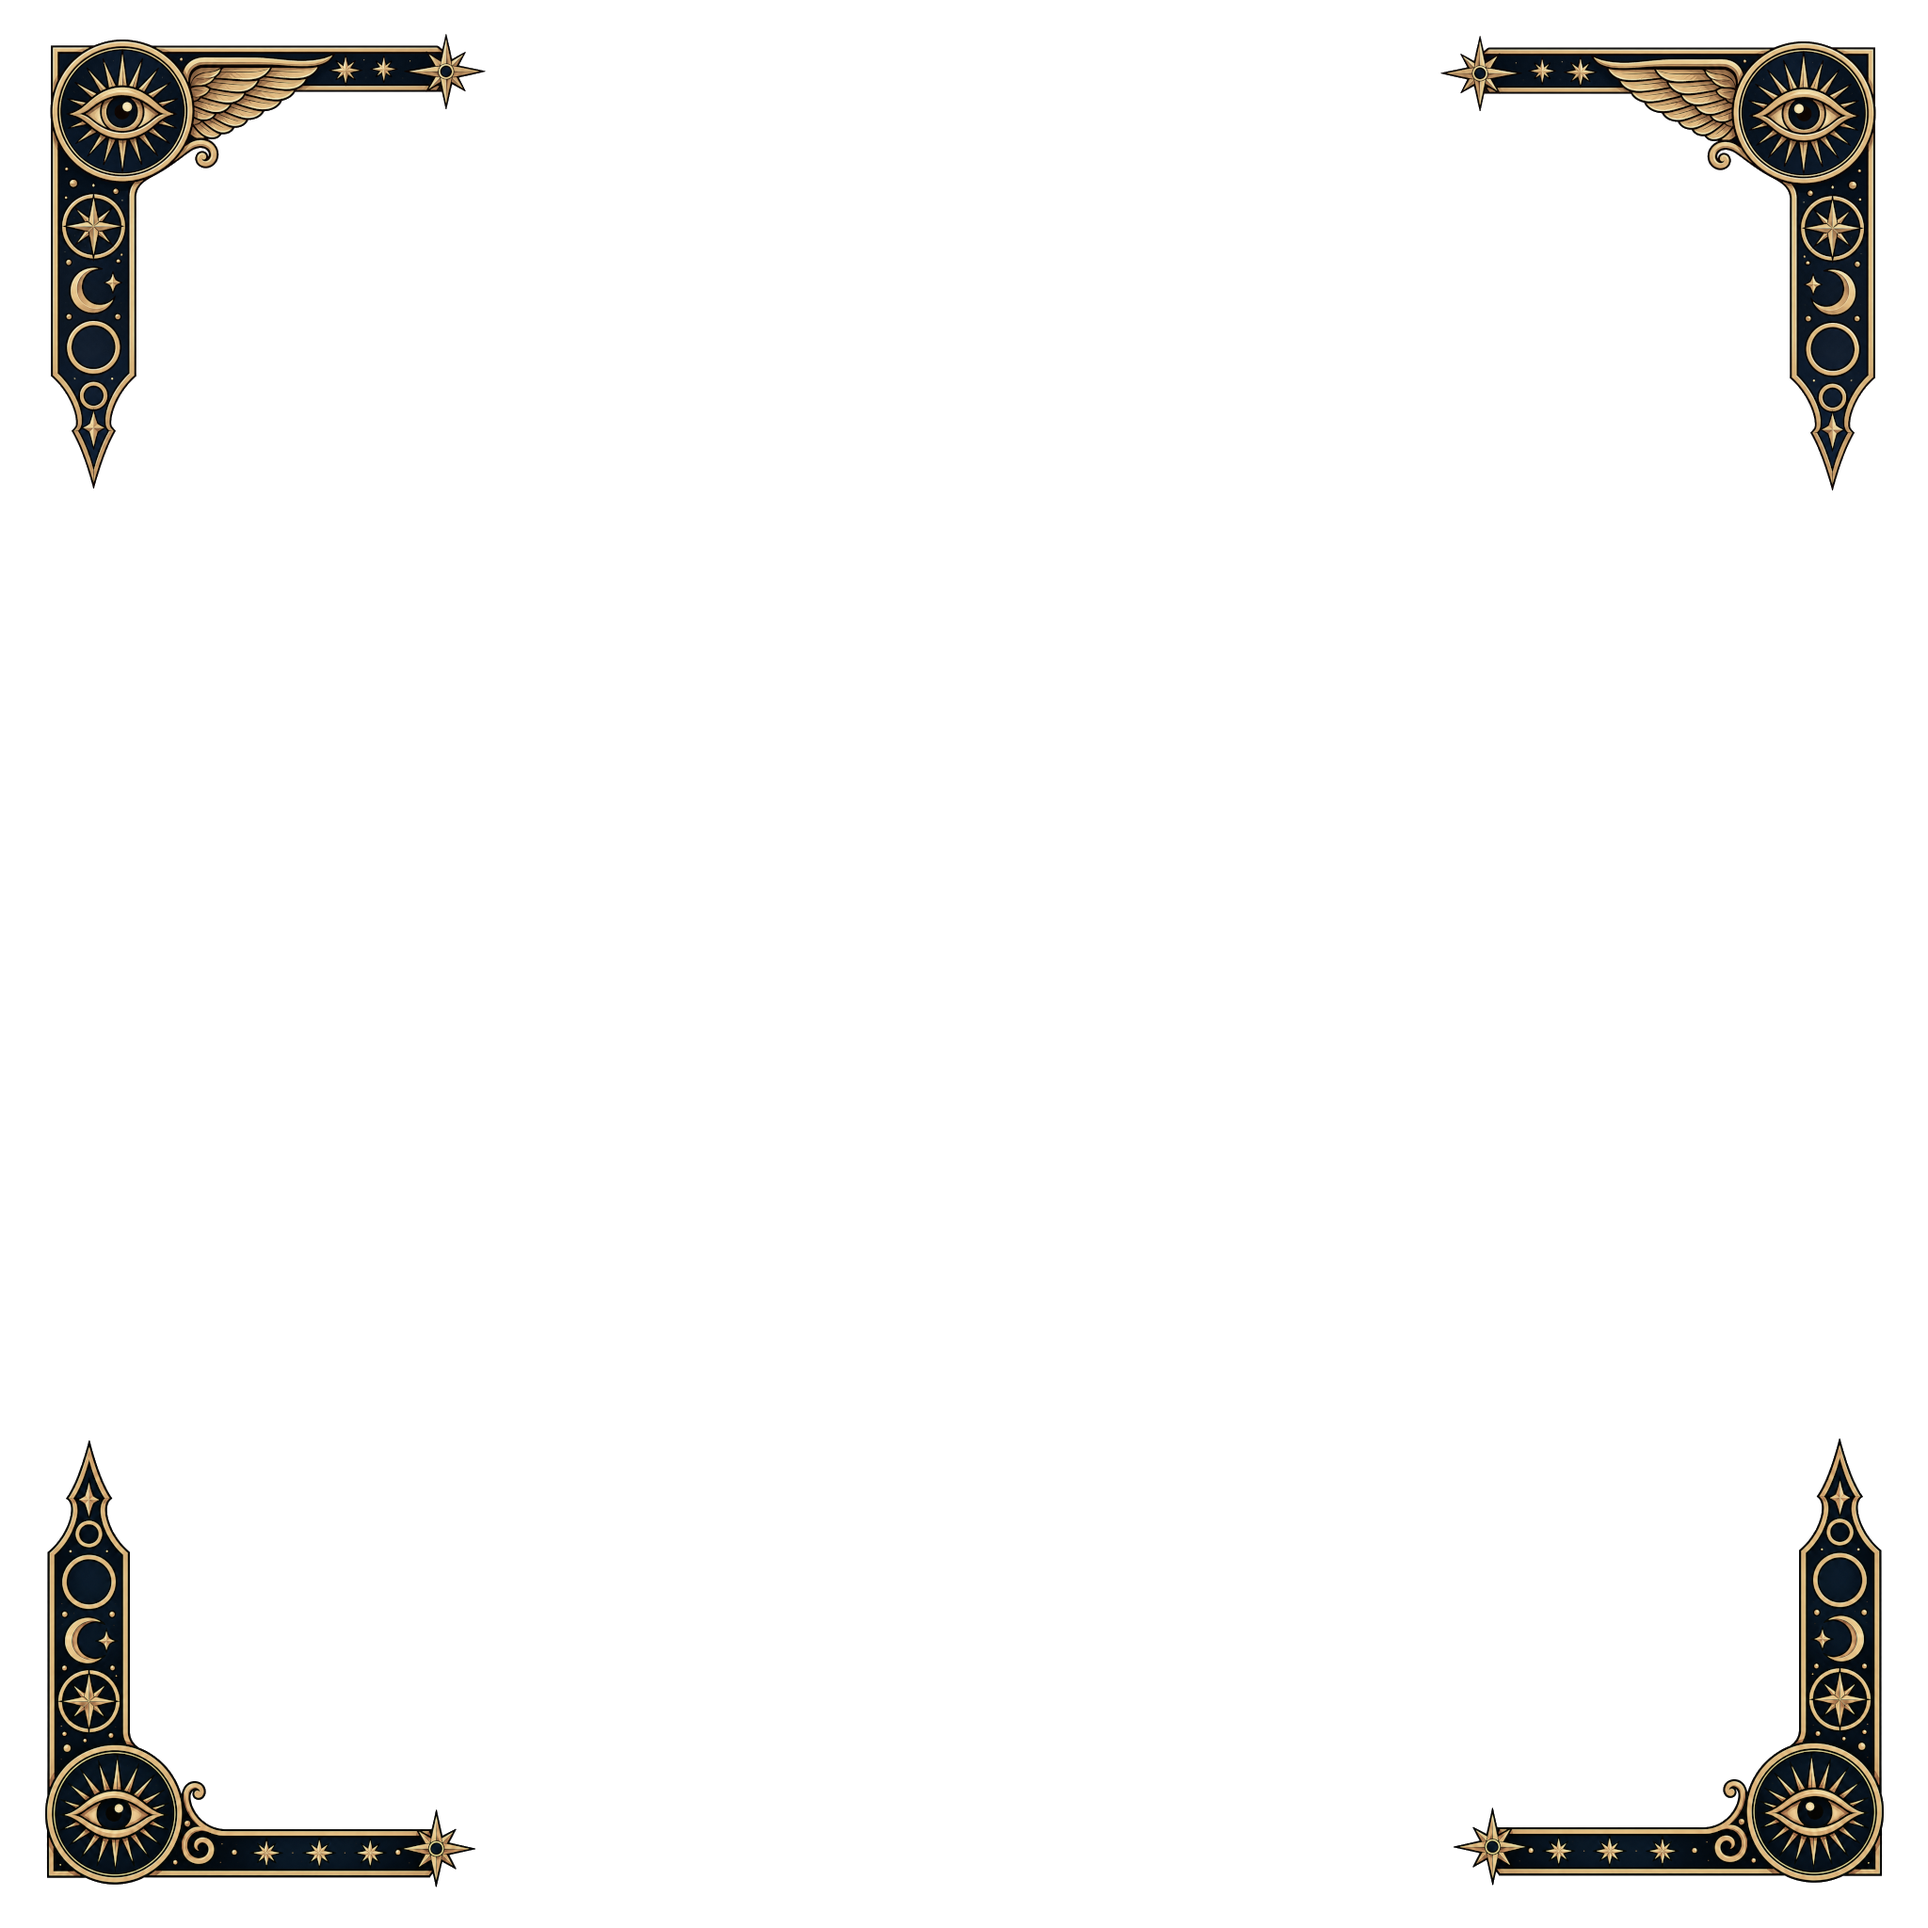
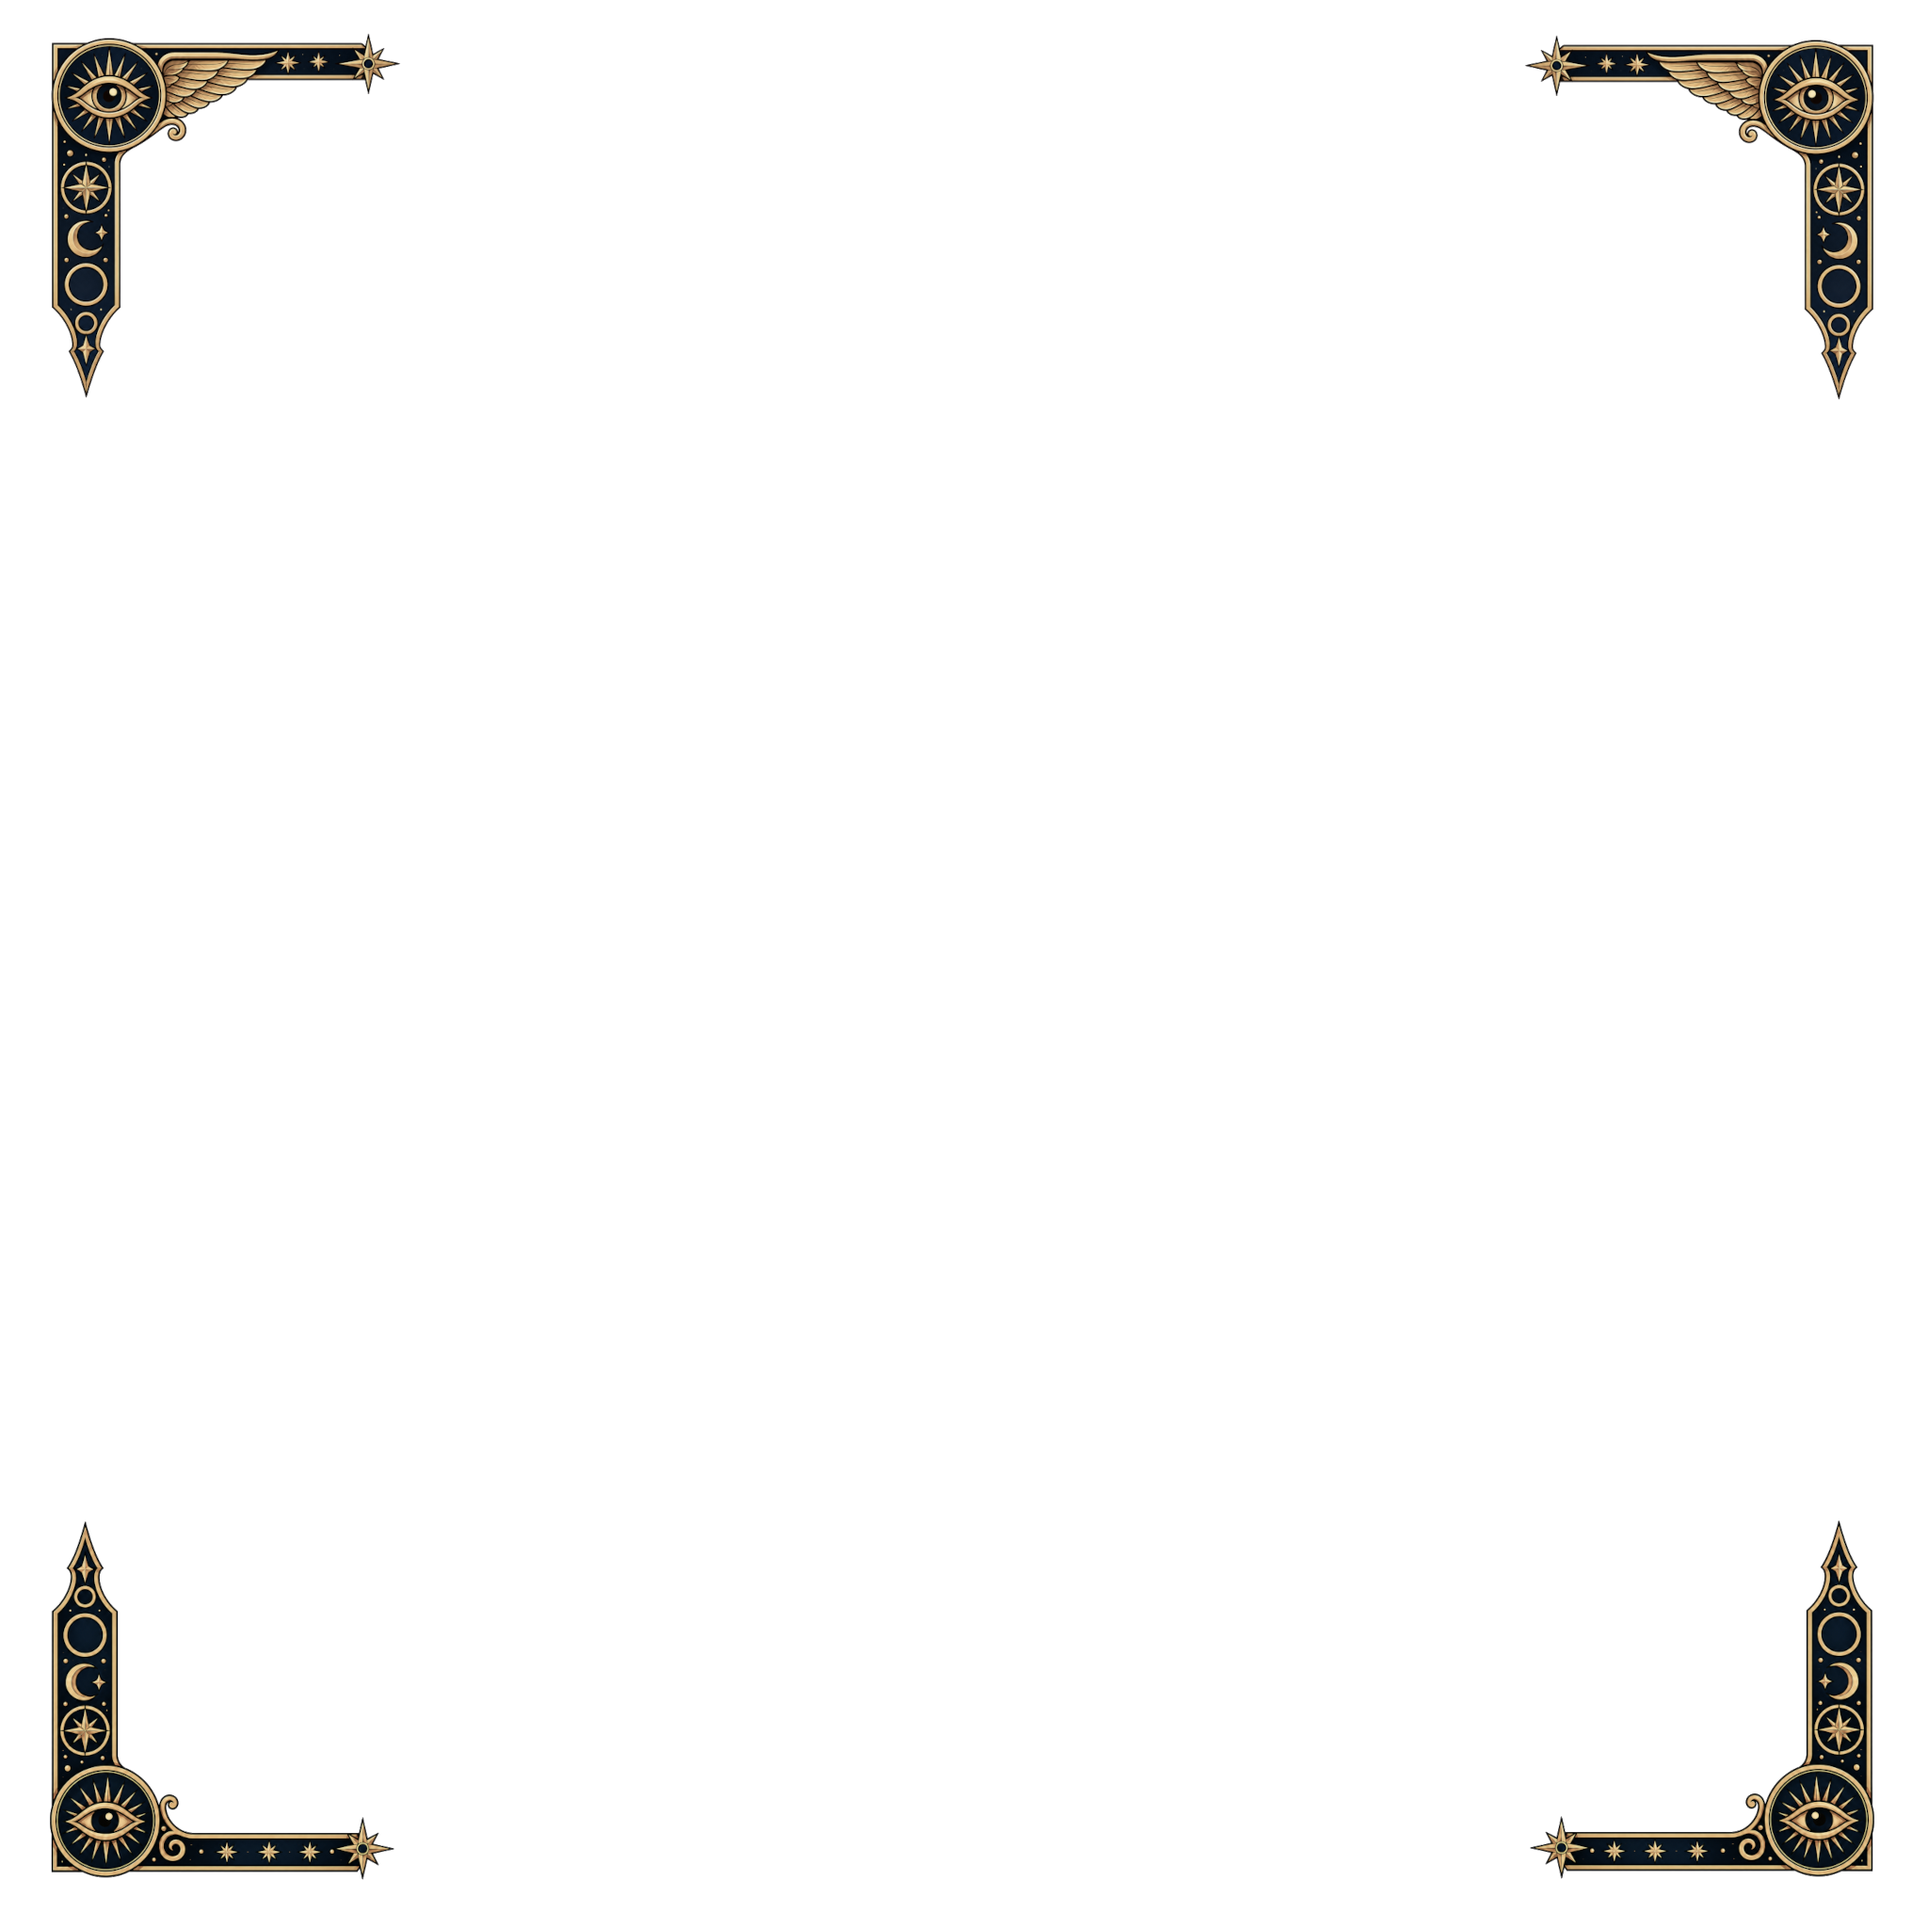
Stylised-image label for archaeology wall + dev host fix
- Add optional labelImage to word-panel; Mythopoeic Archive
  'archaeology' wall now renders MYTHOS_archaeology.png in place of
  the text label, with matching hover glow and dissolve behaviour
- Background image updates (MYTHOS/OVS), horoscope_basic.jpeg→.png
- astro.config: allow .app.github.dev hosts through Vite dev server

diff --git a/src/styles/prism.css b/src/styles/prism.css
@@ -606,6 +606,29 @@ body:not(.sky-mode) .sky-toggle { display: none; }
     pointer-events: none;
 }
 
+/* Image-based label (transparency PNG of stylised text in place of the word) */
+.wall-word-img {
+    line-height: 0;
+    text-shadow: none;
+    filter: drop-shadow(0 1px 0 rgba(255,255,255,0.3)) drop-shadow(0 -1px 2px rgba(0,0,0,0.15));
+    transition: filter 0.3s;
+}
+.wall-word-img img {
+    display: block;
+    height: 11vh;
+    width: auto;
+    max-width: 90%;
+    object-fit: contain;
+    pointer-events: none;
+    user-select: none;
+}
+.wall-word-img:hover {
+    filter:
+        drop-shadow(0 1px 0 rgba(255,255,255,0.35))
+        drop-shadow(0 0 18px rgba(107,141,214,0.45))
+        drop-shadow(0 0 36px rgba(155,107,204,0.2));
+}
+
 /* Scrollable text frame — hidden until word dissolves */
 .wall-text-frame {
     position: absolute;
@@ -1266,6 +1289,15 @@ body:not(.sky-mode) .sky-toggle { display: none; }
     box-shadow:
         inset 0 0 48px rgba(24, 2, 8, 0.6),
         0 0 24px rgba(196, 18, 48, 0.09);
+    /* Scaled to 91.7% (same centre) to sit within the starburst corner brackets */
+    transform: translate(-50%, -50%) scale(0.917);
+}
+.chamber[data-prism-id="ovs-chapel"] .wall-text-frame.visible {
+    animation: frameFadeInFullOVS 0.45s ease forwards;
+}
+@keyframes frameFadeInFullOVS {
+    from { opacity: 0; transform: translate(-50%, -50%) scale(0.889); }
+    to   { opacity: 1; transform: translate(-50%, -50%) scale(0.917); }
 }
 .chamber[data-prism-id="ovs-chapel"] .wall-word {
     font-family: 'Cinzel', 'Cormorant Garamond', serif;
@@ -1276,7 +1308,7 @@ body:not(.sky-mode) .sky-toggle { display: none; }
     color: rgba(232, 198, 138, 0.94);
     font-family: 'Marcellus', 'Cormorant Garamond', serif;
     font-weight: 400;
-    font-size: 3.45vh;
+    font-size: 3.16vh;
     letter-spacing: 0.015em;
     line-height: 1.55;
     scrollbar-color: rgba(196, 18, 48, 0.25) transparent;

diff --git a/src/data/prisms.ts b/src/data/prisms.ts
@@ -15,7 +15,7 @@ export type WallContent =
     | { type: 'image'; src: string; style?: string }
     | { type: 'text'; html: string }
     | { type: 'random-images'; pool: { src: string; w: number; h: number }[] }
-    | { type: 'word-panel'; label: string; text: string }
+    | { type: 'word-panel'; label: string; text: string; labelImage?: string }
     | { type: 'shrine-search' }
     | { type: 'ovs-star' }
     | { type: 'poetry-passage'; maxChars?: number }
@@ -486,7 +486,7 @@ export const prisms: Record<string, PrismConfig> = {
                 archway: true,
                 destination: '/prism/main?wall=3',
                 bg: '/images/wall-bg.jpg',
-                content: { type: 'image', src: '/images/horoscope_basic.jpeg', style: 'width:40%; top:20%' },
+                content: { type: 'image', src: '/images/horoscope_basic.png', style: 'width:40%; top:20%' },
                 heavensTilt: {
                     title: '',
                     imageSrc: '/images/leilan_full_birthchart.png',
@@ -501,6 +501,7 @@ export const prisms: Record<string, PrismConfig> = {
                 content: {
                     type: 'word-panel',
                     label: 'archaeology',
+                    labelImage: '/images/MYTHOS_archaeology.png',
                     text: wallText('mythopoeic-archive-archaeology.html'),
                 },
             },

diff --git a/public/scripts/prism.js b/public/scripts/prism.js
@@ -911,7 +911,7 @@ function enterHeavensTilt(wallNum) {
     }
     let bodyHtml = '';
     if (cfg.imageSrc) {
-        bodyHtml += `<img src="${cfg.imageSrc}" alt="" style="display:block;max-width:min(90%, 510px);margin:0 auto 1.2em;border-radius:4px;" />`;
+        bodyHtml += `<a id="shrine-heavens-img-link" href="${cfg.imageSrc}" target="_blank" rel="noopener noreferrer" style="display:block;margin:0 auto 1.2em;width:fit-content;"><img src="${cfg.imageSrc}" alt="" style="display:block;max-width:min(90%, 510px);margin:0 auto;border-radius:4px;cursor:zoom-in;" /></a>`;
     }
     // Wrap raw text paragraphs (separated by double newlines) in <p> tags
     const rawBody = cfg.body || '';
@@ -939,6 +939,9 @@ function enterHeavensTilt(wallNum) {
                 isShrineHeavensTransitioning = false;
                 isShrineHeavensMode = true;
                 ui.button.focus({ preventScroll: true });
+                // Only expose the hover tooltip once the horoscope is fully revealed
+                const imgLink = document.getElementById('shrine-heavens-img-link');
+                if (imgLink) imgLink.title = 'Open full-size in a new tab';
             }, 2400);
         });
     }, SHRINE_HEAVENS_DELAY_MS);
